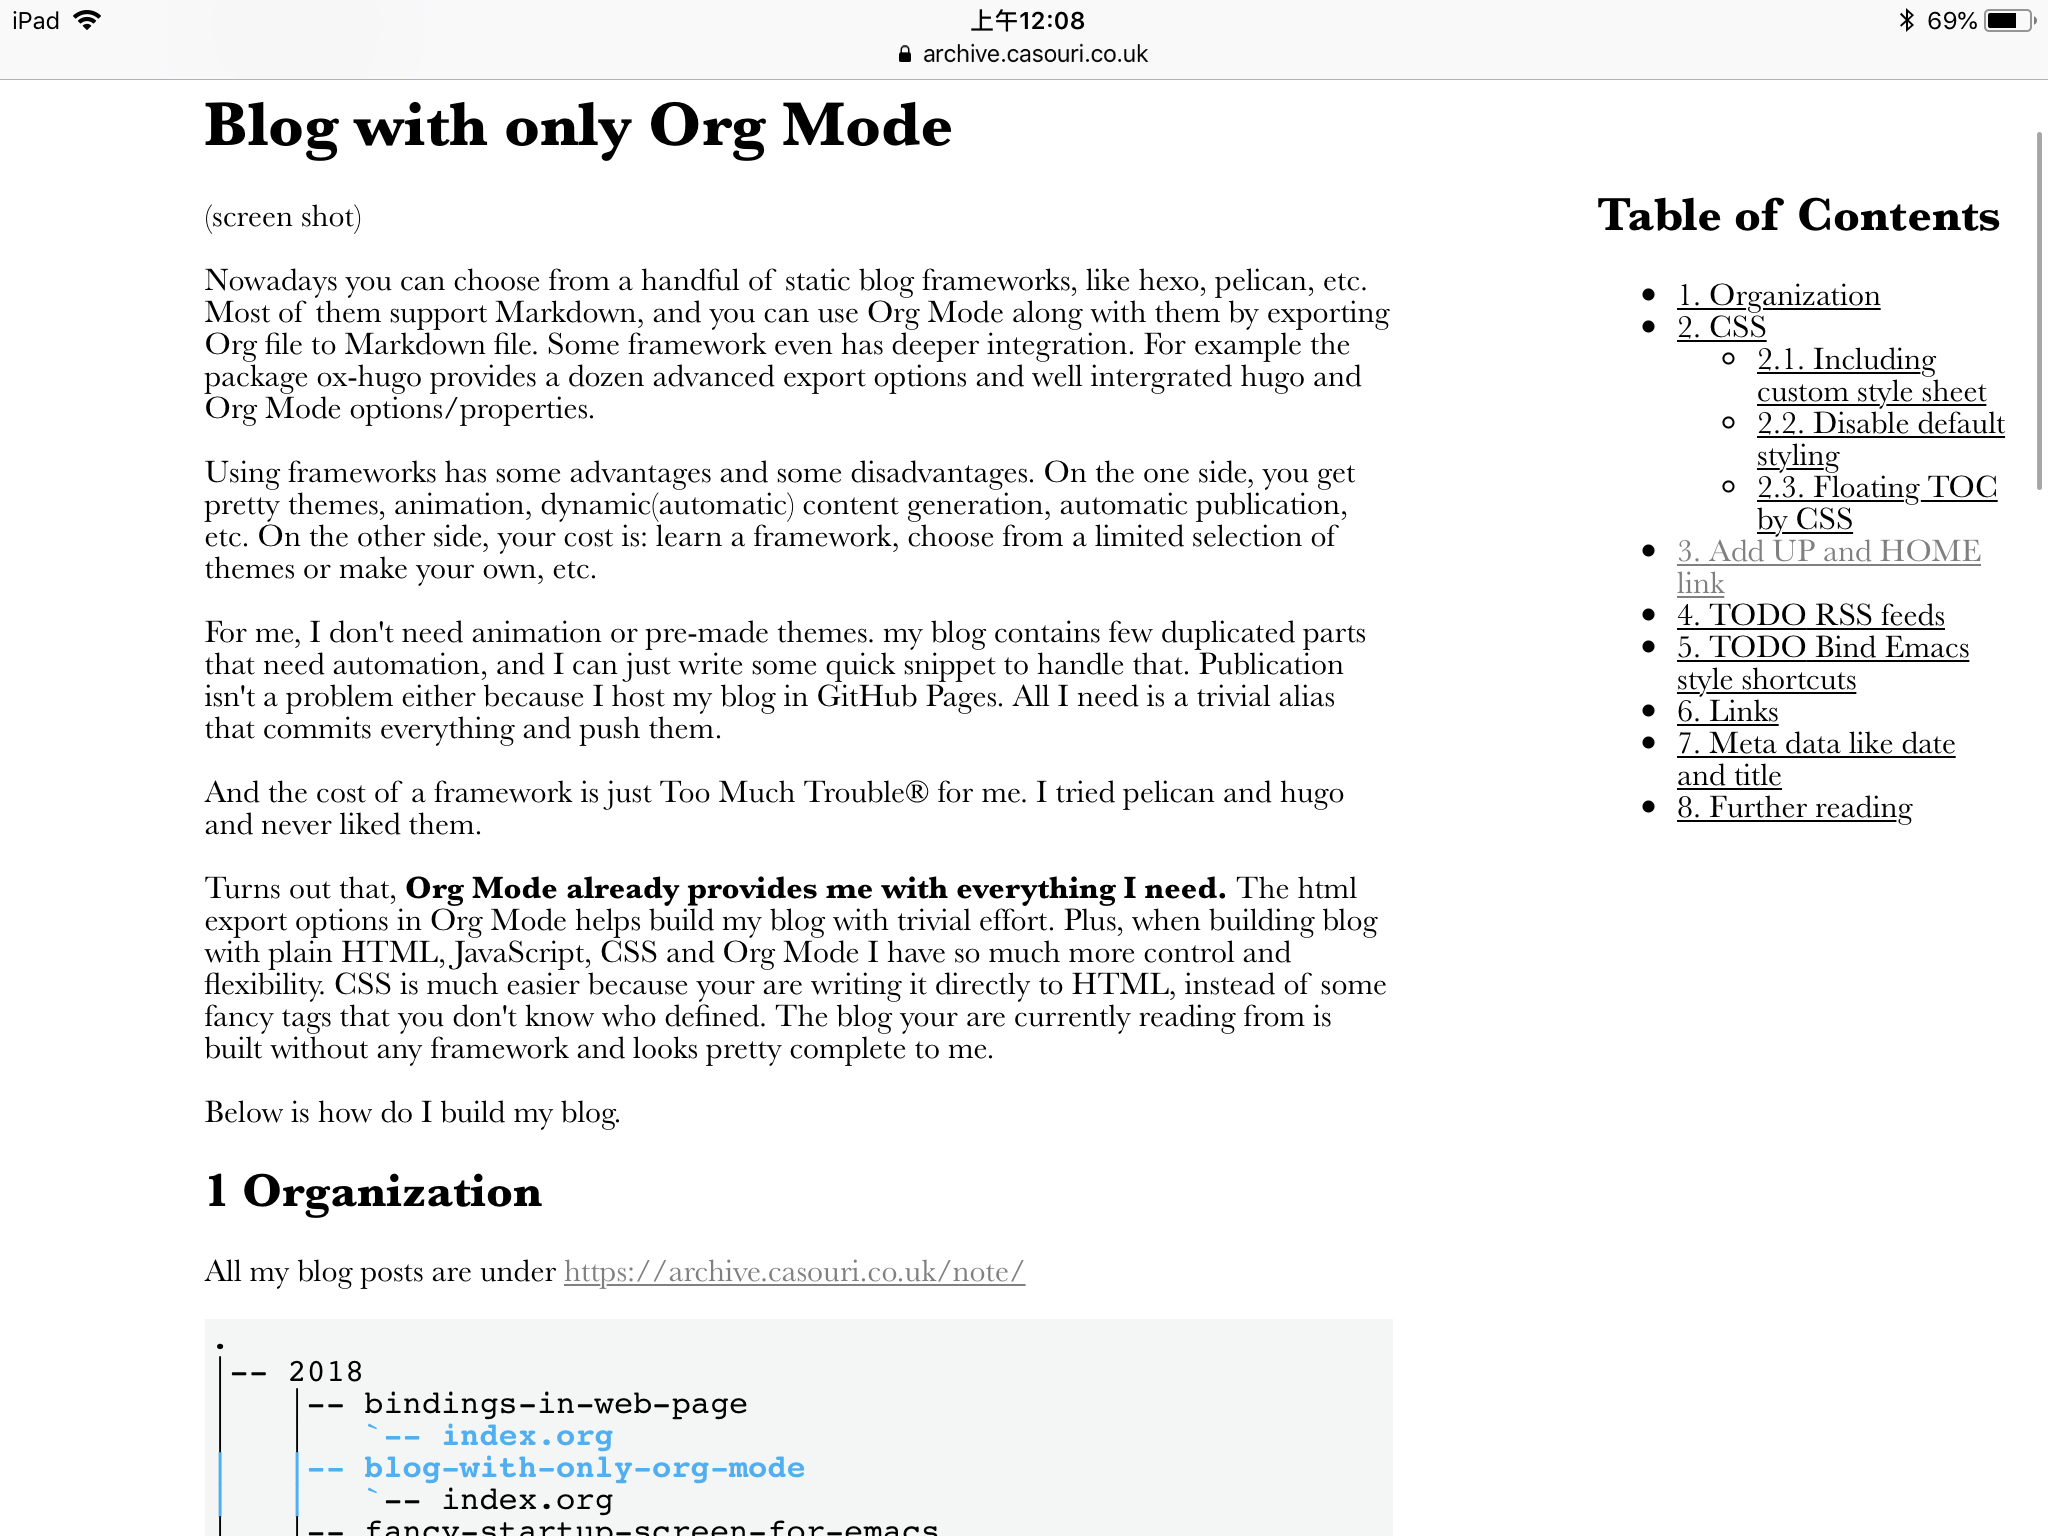
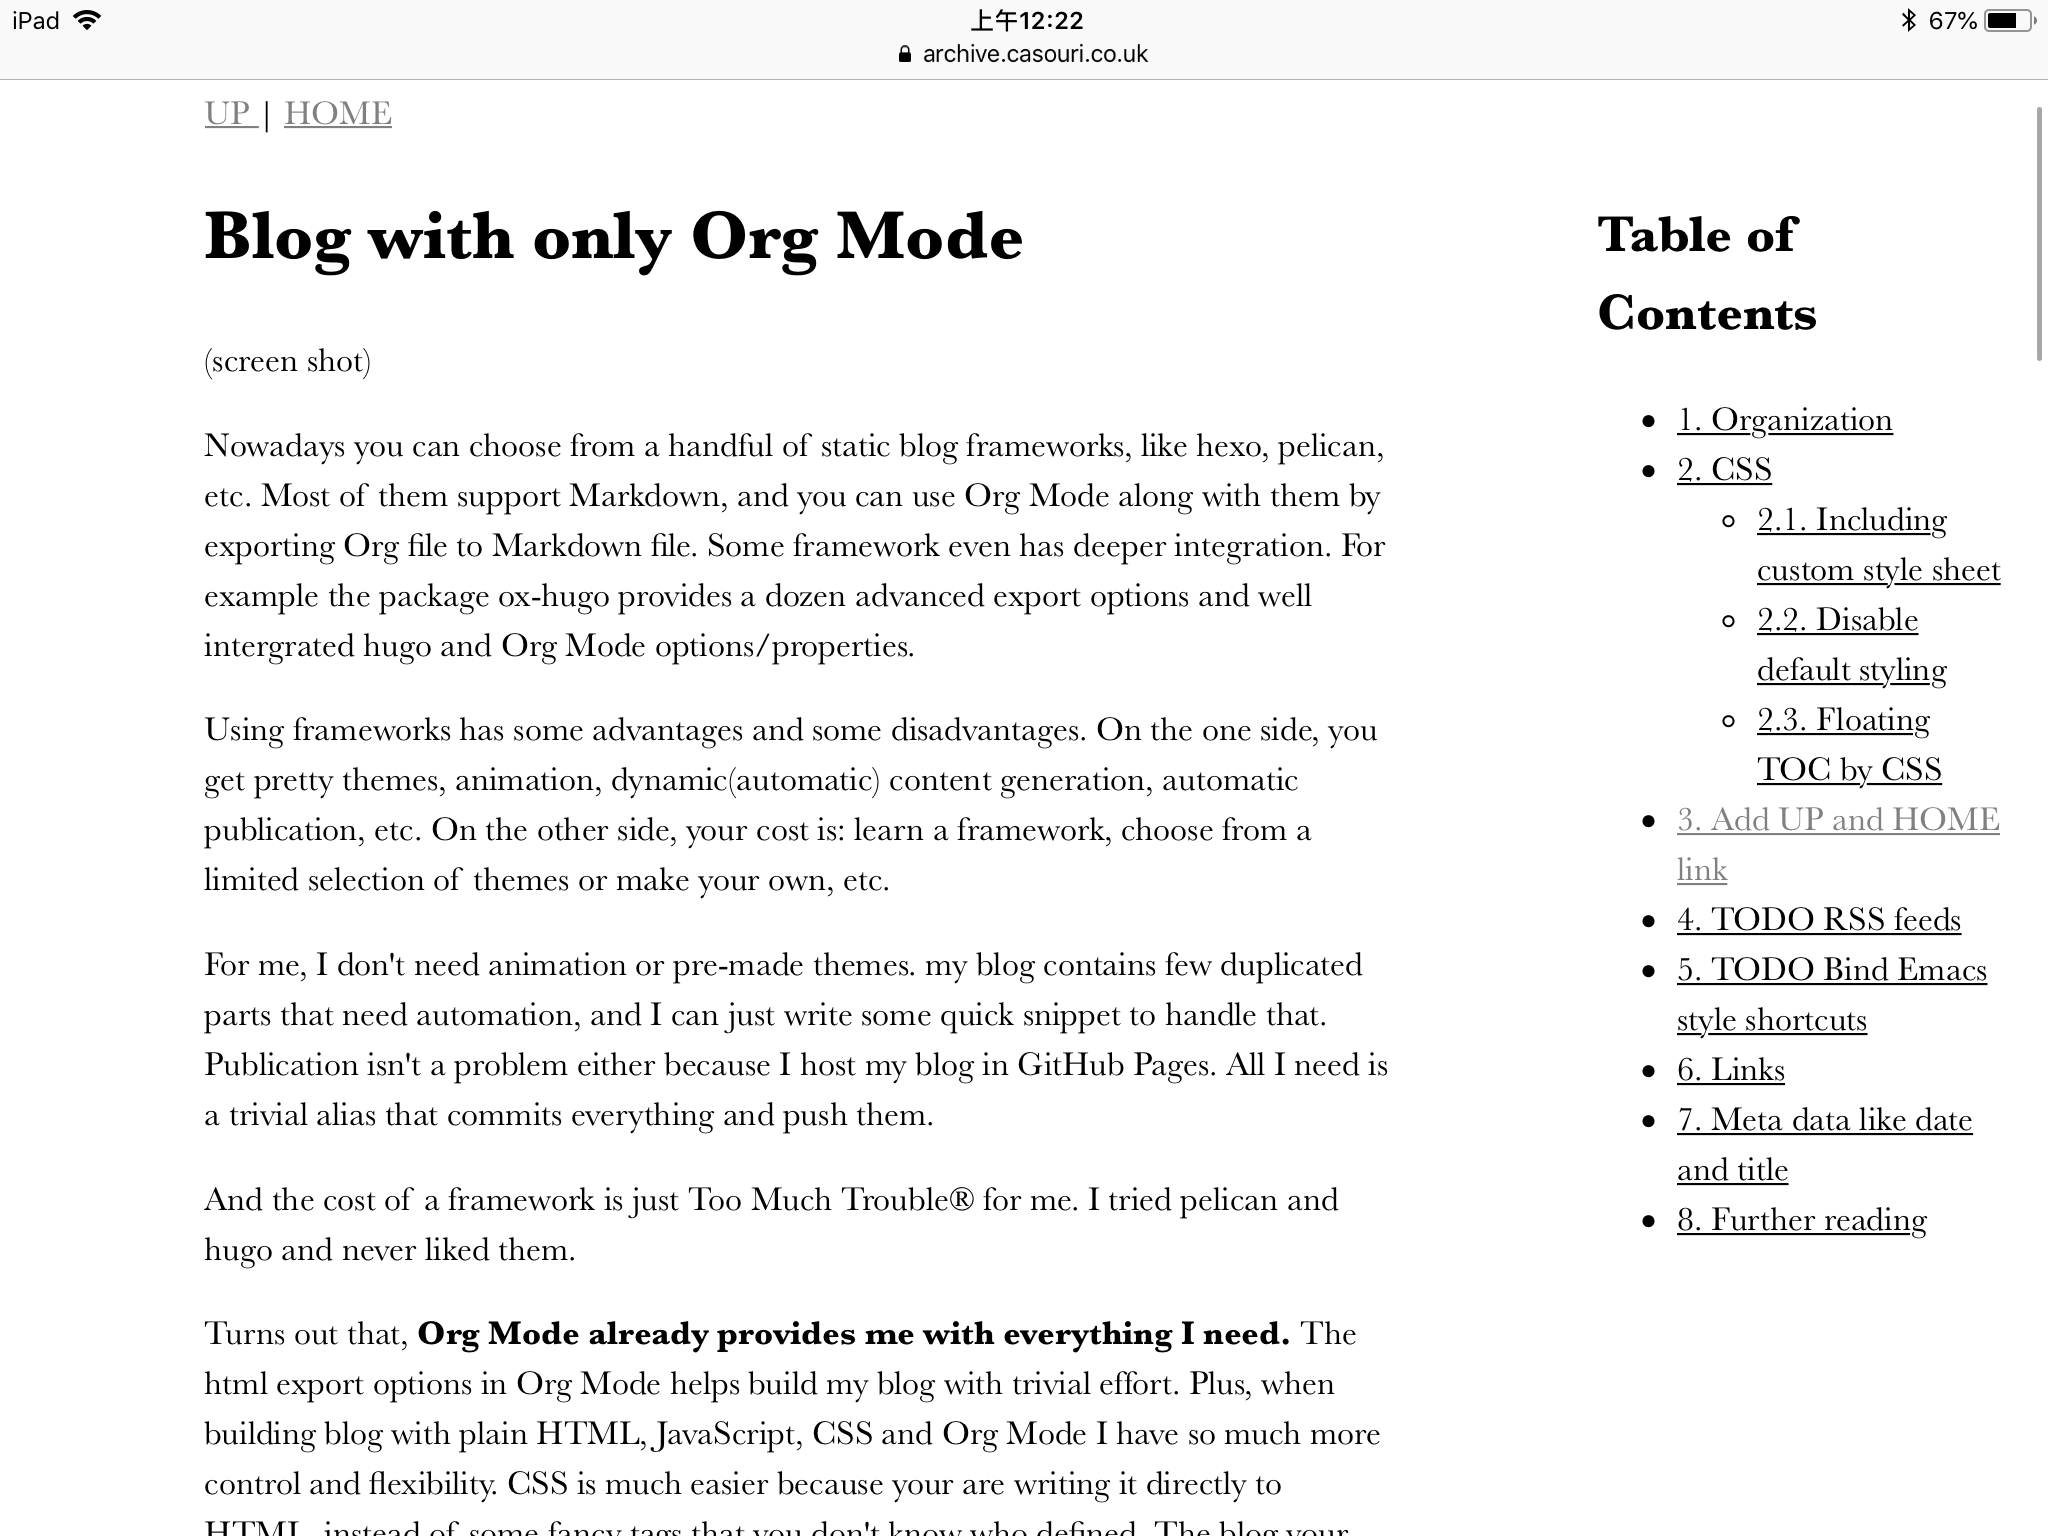
Update blog

Changed region(s): [[0.0938, 0.0625, 0.6875, 1.0], [0.7812, 0.125, 1.0, 0.8125], [0.625, 0.9062, 0.6562, 0.9375]]

diff --git a/note/2018/blog-with-only-org-mode/index.html b/note/2018/blog-with-only-org-mode/index.html
@@ -3,7 +3,7 @@
 "http://www.w3.org/TR/xhtml1/DTD/xhtml1-strict.dtd">
 <html xmlns="http://www.w3.org/1999/xhtml" lang="en" xml:lang="en">
 <head>
-<!-- 2018-09-12 Wed 23:47 -->
+<!-- 2018-09-13 Thu 00:24 -->
 <meta http-equiv="Content-Type" content="text/html;charset=utf-8" />
 <meta name="viewport" content="width=device-width, initial-scale=1" />
 <title>Blog with only Org Mode</title>
@@ -69,26 +69,28 @@ for the JavaScript code in this tag.
 <h2>Table of Contents</h2>
 <div id="text-table-of-contents">
 <ul>
-<li><a href="#orge1a5b27">1. Organization</a></li>
-<li><a href="#org4d9fcdd">2. CSS</a>
+<li><a href="#orgf2ed1a4">1. Organization</a></li>
+<li><a href="#org5010b8f">2. CSS</a>
 <ul>
-<li><a href="#orgd776a69">2.1. Including custom style sheet</a></li>
-<li><a href="#org7507ea4">2.2. Disable default styling</a></li>
-<li><a href="#org5e48dec">2.3. Floating TOC by CSS</a></li>
+<li><a href="#org1b8571f">2.1. Including custom style sheet</a></li>
+<li><a href="#org1d24e8d">2.2. Disable default styling</a></li>
+<li><a href="#orgf27ff02">2.3. Floating TOC by CSS</a></li>
 </ul>
 </li>
-<li><a href="#orgfac26d7">3. Add UP and HOME link</a></li>
-<li><a href="#org27532a3">4. <span class="todo TODO">TODO</span> RSS feeds</a></li>
-<li><a href="#orgaeecb00">5. <span class="todo TODO">TODO</span> Bind Emacs style shortcuts</a></li>
-<li><a href="#orgcc89c0d">6. Links</a></li>
-<li><a href="#org0f1feba">7. Meta data like date and title</a></li>
-<li><a href="#org61afaed">8. Further reading</a></li>
+<li><a href="#org197285e">3. Add UP and HOME link</a></li>
+<li><a href="#org6ff5f4f">4. <span class="todo TODO">TODO</span> RSS feeds</a></li>
+<li><a href="#orgec304d9">5. <span class="todo TODO">TODO</span> Bind Emacs style shortcuts</a></li>
+<li><a href="#orgb1a96ac">6. Links</a></li>
+<li><a href="#org52817b9">7. Meta data like date and title</a></li>
+<li><a href="#orgb131649">8. Further reading</a></li>
 </ul>
 </div>
 </div>
-<p>
-(screen shot)
+
+<div class="figure">
+<p><img src="./screen-shot.jpg" alt="screen-shot.jpg" />
 </p>
+</div>
 
 <p>
 Nowadays you can choose from a handful of static blog frameworks, like hexo, pelican, etc.
@@ -127,8 +129,8 @@ The blog your are currently reading from is built without any framework and look
 Below is how do I build my blog.
 </p>
 
-<div id="outline-container-orge1a5b27" class="outline-2">
-<h2 id="orge1a5b27"><span class="section-number-2">1</span> Organization</h2>
+<div id="outline-container-orgf2ed1a4" class="outline-2">
+<h2 id="orgf2ed1a4"><span class="section-number-2">1</span> Organization</h2>
 <div class="outline-text-2" id="text-1">
 <p>
 All my blog posts are under <a href="https://archive.casouri.co.uk/note/">https://archive.casouri.co.uk/note/</a>
@@ -173,12 +175,12 @@ Under the root directory (<code>/note/</code>), I have a style sheet, a index.or
 </div>
 </div>
 
-<div id="outline-container-org4d9fcdd" class="outline-2">
-<h2 id="org4d9fcdd"><span class="section-number-2">2</span> CSS</h2>
+<div id="outline-container-org5010b8f" class="outline-2">
+<h2 id="org5010b8f"><span class="section-number-2">2</span> CSS</h2>
 <div class="outline-text-2" id="text-2">
 </div>
-<div id="outline-container-orgd776a69" class="outline-3">
-<h3 id="orgd776a69"><span class="section-number-3">2.1</span> Including custom style sheet</h3>
+<div id="outline-container-org1b8571f" class="outline-3">
+<h3 id="org1b8571f"><span class="section-number-3">2.1</span> Including custom style sheet</h3>
 <div class="outline-text-3" id="text-2-1">
 <p>
 Including style sheet(s) is quite easy.
@@ -207,8 +209,8 @@ However, that isn't the ultra complete list, the best way is probably look at th
 </div>
 </div>
 
-<div id="outline-container-org7507ea4" class="outline-3">
-<h3 id="org7507ea4"><span class="section-number-3">2.2</span> Disable default styling</h3>
+<div id="outline-container-org1d24e8d" class="outline-3">
+<h3 id="org1d24e8d"><span class="section-number-3">2.2</span> Disable default styling</h3>
 <div class="outline-text-3" id="text-2-2">
 <p>
 To turn off the default CSS styling, insert <code>#+OPTIONS: html-style:nil</code>.
@@ -216,8 +218,8 @@ To turn off the default CSS styling, insert <code>#+OPTIONS: html-style:nil</cod
 </div>
 </div>
 
-<div id="outline-container-org5e48dec" class="outline-3">
-<h3 id="org5e48dec"><span class="section-number-3">2.3</span> Floating TOC by CSS</h3>
+<div id="outline-container-orgf27ff02" class="outline-3">
+<h3 id="orgf27ff02"><span class="section-number-3">2.3</span> Floating TOC by CSS</h3>
 <div class="outline-text-3" id="text-2-3">
 <p>
 Put this into your custom css file and you can get a floating TOC on the right of the screen.
@@ -237,8 +239,8 @@ I use <a href="https://www.w3schools.com/cssref/css3_pr_mediaquery.asp">media ru
 </div>
 </div>
 
-<div id="outline-container-orgfac26d7" class="outline-2">
-<h2 id="orgfac26d7"><span class="section-number-2">3</span> Add UP and HOME link</h2>
+<div id="outline-container-org197285e" class="outline-2">
+<h2 id="org197285e"><span class="section-number-2">3</span> Add UP and HOME link</h2>
 <div class="outline-text-2" id="text-3">
 <p>
 If you add these options,
@@ -259,8 +261,8 @@ there isn't any other layer between each post and home page.
 </div>
 
 
-<div id="outline-container-org27532a3" class="outline-2">
-<h2 id="org27532a3"><span class="section-number-2">4</span> <span class="todo TODO">TODO</span> RSS feeds</h2>
+<div id="outline-container-org6ff5f4f" class="outline-2">
+<h2 id="org6ff5f4f"><span class="section-number-2">4</span> <span class="todo TODO">TODO</span> RSS feeds</h2>
 <div class="outline-text-2" id="text-4">
 <p>
 A blog without RSS feeds isn't complete.
@@ -273,8 +275,8 @@ But Org Mode didn't have a very good way to generate RSS feeds.
 </div>
 </div>
 
-<div id="outline-container-orgaeecb00" class="outline-2">
-<h2 id="orgaeecb00"><span class="section-number-2">5</span> <span class="todo TODO">TODO</span> Bind Emacs style shortcuts</h2>
+<div id="outline-container-orgec304d9" class="outline-2">
+<h2 id="orgec304d9"><span class="section-number-2">5</span> <span class="todo TODO">TODO</span> Bind Emacs style shortcuts</h2>
 <div class="outline-text-2" id="text-5">
 <p>
 <a href="https://medium.com/@melwinalm/crcreating-keyboard-shortcuts-in-javascripteating-keyboard-shortcuts-in-javascript-763ca19beb9e">https://medium.com/@melwinalm/crcreating-keyboard-shortcuts-in-javascripteating-keyboard-shortcuts-in-javascript-763ca19beb9e</a>
@@ -286,8 +288,8 @@ But Org Mode didn't have a very good way to generate RSS feeds.
 </div>
 </div>
 
-<div id="outline-container-orgcc89c0d" class="outline-2">
-<h2 id="orgcc89c0d"><span class="section-number-2">6</span> Links</h2>
+<div id="outline-container-orgb1a96ac" class="outline-2">
+<h2 id="orgb1a96ac"><span class="section-number-2">6</span> Links</h2>
 <div class="outline-text-2" id="text-6">
 <p>
 Links work just like paths: <code>/</code> is the root URL, for me it is <code>arhive.casouri.co.uk</code>;
@@ -298,7 +300,7 @@ I don't need to worry about path differences.
 
 <p>
 Internal links works without any problem either.
-<a href="#org0f1feba">This internal link to the next heding</a> works in both Org file and the exported webpage.
+<a href="#org52817b9">This internal link to the next heding</a> works in both Org file and the exported webpage.
 </p>
 
 <p>
@@ -312,8 +314,8 @@ Manual for <a href="https://orgmode.org/manual/External-links.html">external lin
 </div>
 </div>
 
-<div id="outline-container-org0f1feba" class="outline-2">
-<h2 id="org0f1feba"><span class="section-number-2">7</span> Meta data like date and title</h2>
+<div id="outline-container-org52817b9" class="outline-2">
+<h2 id="org52817b9"><span class="section-number-2">7</span> Meta data like date and title</h2>
 <div class="outline-text-2" id="text-7">
 <p>
 You probably already know these stuff:
@@ -339,8 +341,8 @@ Check out the <a href="https://orgmode.org/manual/Export-settings.html">complete
 </div>
 
 
-<div id="outline-container-org61afaed" class="outline-2">
-<h2 id="org61afaed"><span class="section-number-2">8</span> Further reading</h2>
+<div id="outline-container-orgb131649" class="outline-2">
+<h2 id="orgb131649"><span class="section-number-2">8</span> Further reading</h2>
 <div class="outline-text-2" id="text-8">
 <p>
 Checkout <a href="https://orgmode.org/manual/HTML-export.html#HTML-export">the manual</a>.
@@ -351,7 +353,7 @@ Checkout <a href="https://orgmode.org/manual/HTML-export.html#HTML-export">the m
 <div id="postamble" class="status">
 <p class="date">Date: 2018-09-11 Tue 00:00</p>
 <p class="author">Author: Yuan Fu</p>
-<p class="date">Created: 2018-09-12 Wed 23:47</p>
+<p class="date">Created: 2018-09-13 Thu 00:24</p>
 <p class="validation"><a href="http://validator.w3.org/check?uri=referer">Validate</a></p>
 </div>
 </body>
